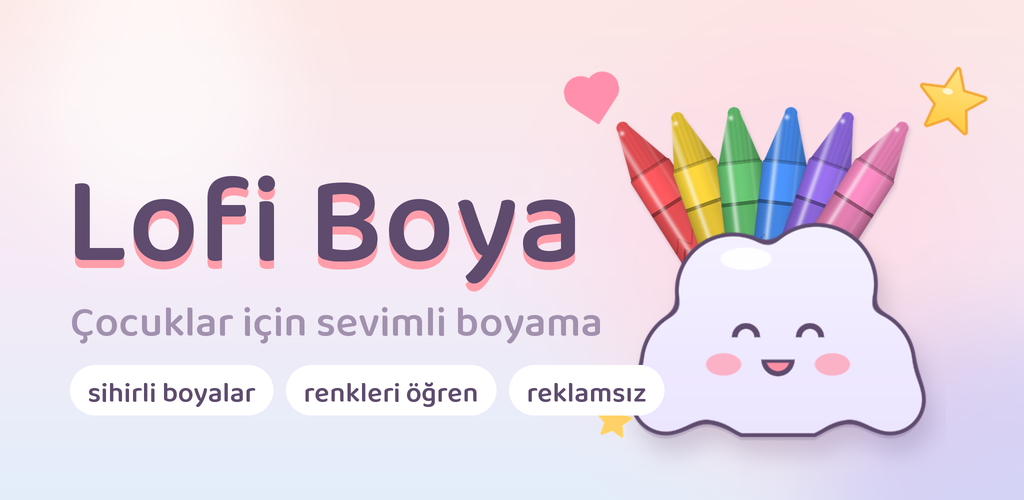
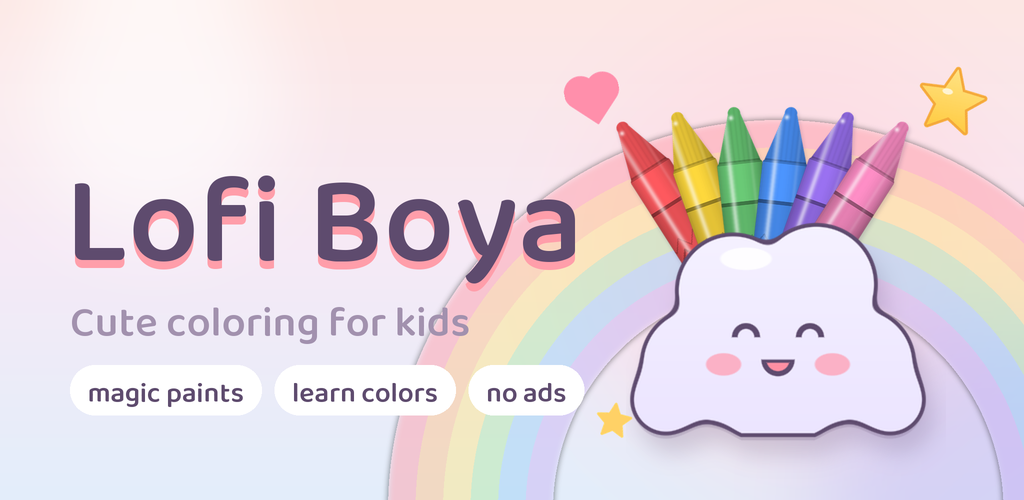
English feature graphic with pastel rainbow
Store feature graphic (1024x500) now in English for the default listing language,
with the same rainbow as the new app icon.

diff --git a/tools/magaza_gorselleri.py b/tools/magaza_gorselleri.py
@@ -180,6 +180,18 @@ def feature():
     blob(img, (W * 0.78, H * 0.5), 420, (0xFF, 0xD6, 0xE0, 150), 110)
     blob(img, (W * 0.95, H * 0.95), 300, (0xC3, 0xB5, 0xF0, 120), 90)
 
+    # sağda, ikondaki gibi pastel gökkuşağı (Pofuduk'un arkasında)
+    arc = Image.new("RGBA", (W, H), (0, 0, 0, 0))
+    ad = ImageDraw.Draw(arc)
+    cx, cy, r0, band = W * 0.76, H * 1.02, H * 0.78, H * 0.055
+    for i, col in enumerate(RAINBOW):
+        r = r0 - i * band
+        ad.ellipse([cx - r, cy - r, cx + r, cy + r], fill=col + (255,))
+    rin = r0 - len(RAINBOW) * band
+    ad.ellipse([cx - rin, cy - rin, cx + rin, cy + rin], fill=(0, 0, 0, 0))
+    arc.putalpha(arc.split()[3].point(lambda v: int(v * 0.5)).filter(ImageFilter.GaussianBlur(6)))
+    img.alpha_composite(arc)
+
     # sağda: kalem yelpazesi + Pofuduk
     for i, col in enumerate(CRAYONS):
         a = (2.5 - i) * 13
@@ -196,9 +208,9 @@ def feature():
     tx, ty = 130, 250
     d.text((tx, ty + 16), "Lofi Boya", font=title, fill=ACCENT)
     d.text((tx, ty), "Lofi Boya", font=title, fill=TEXT)
-    d.text((tx + 10, ty + 330), "Çocuklar için sevimli boyama", font=sub, fill=SOFT)
-    # küçük etiketler
-    tags = ["sihirli boyalar", "renkleri öğren", "reklamsız"]
+    d.text((tx + 10, ty + 330), "Cute coloring for kids", font=sub, fill=SOFT)
+    # küçük etiketler (mağazanın varsayılan dili İngilizce)
+    tags = ["magic paints", "learn colors", "no ads"]
     x = tx + 10
     small = ImageFont.truetype(FONT, 56)
     for t in tags:
